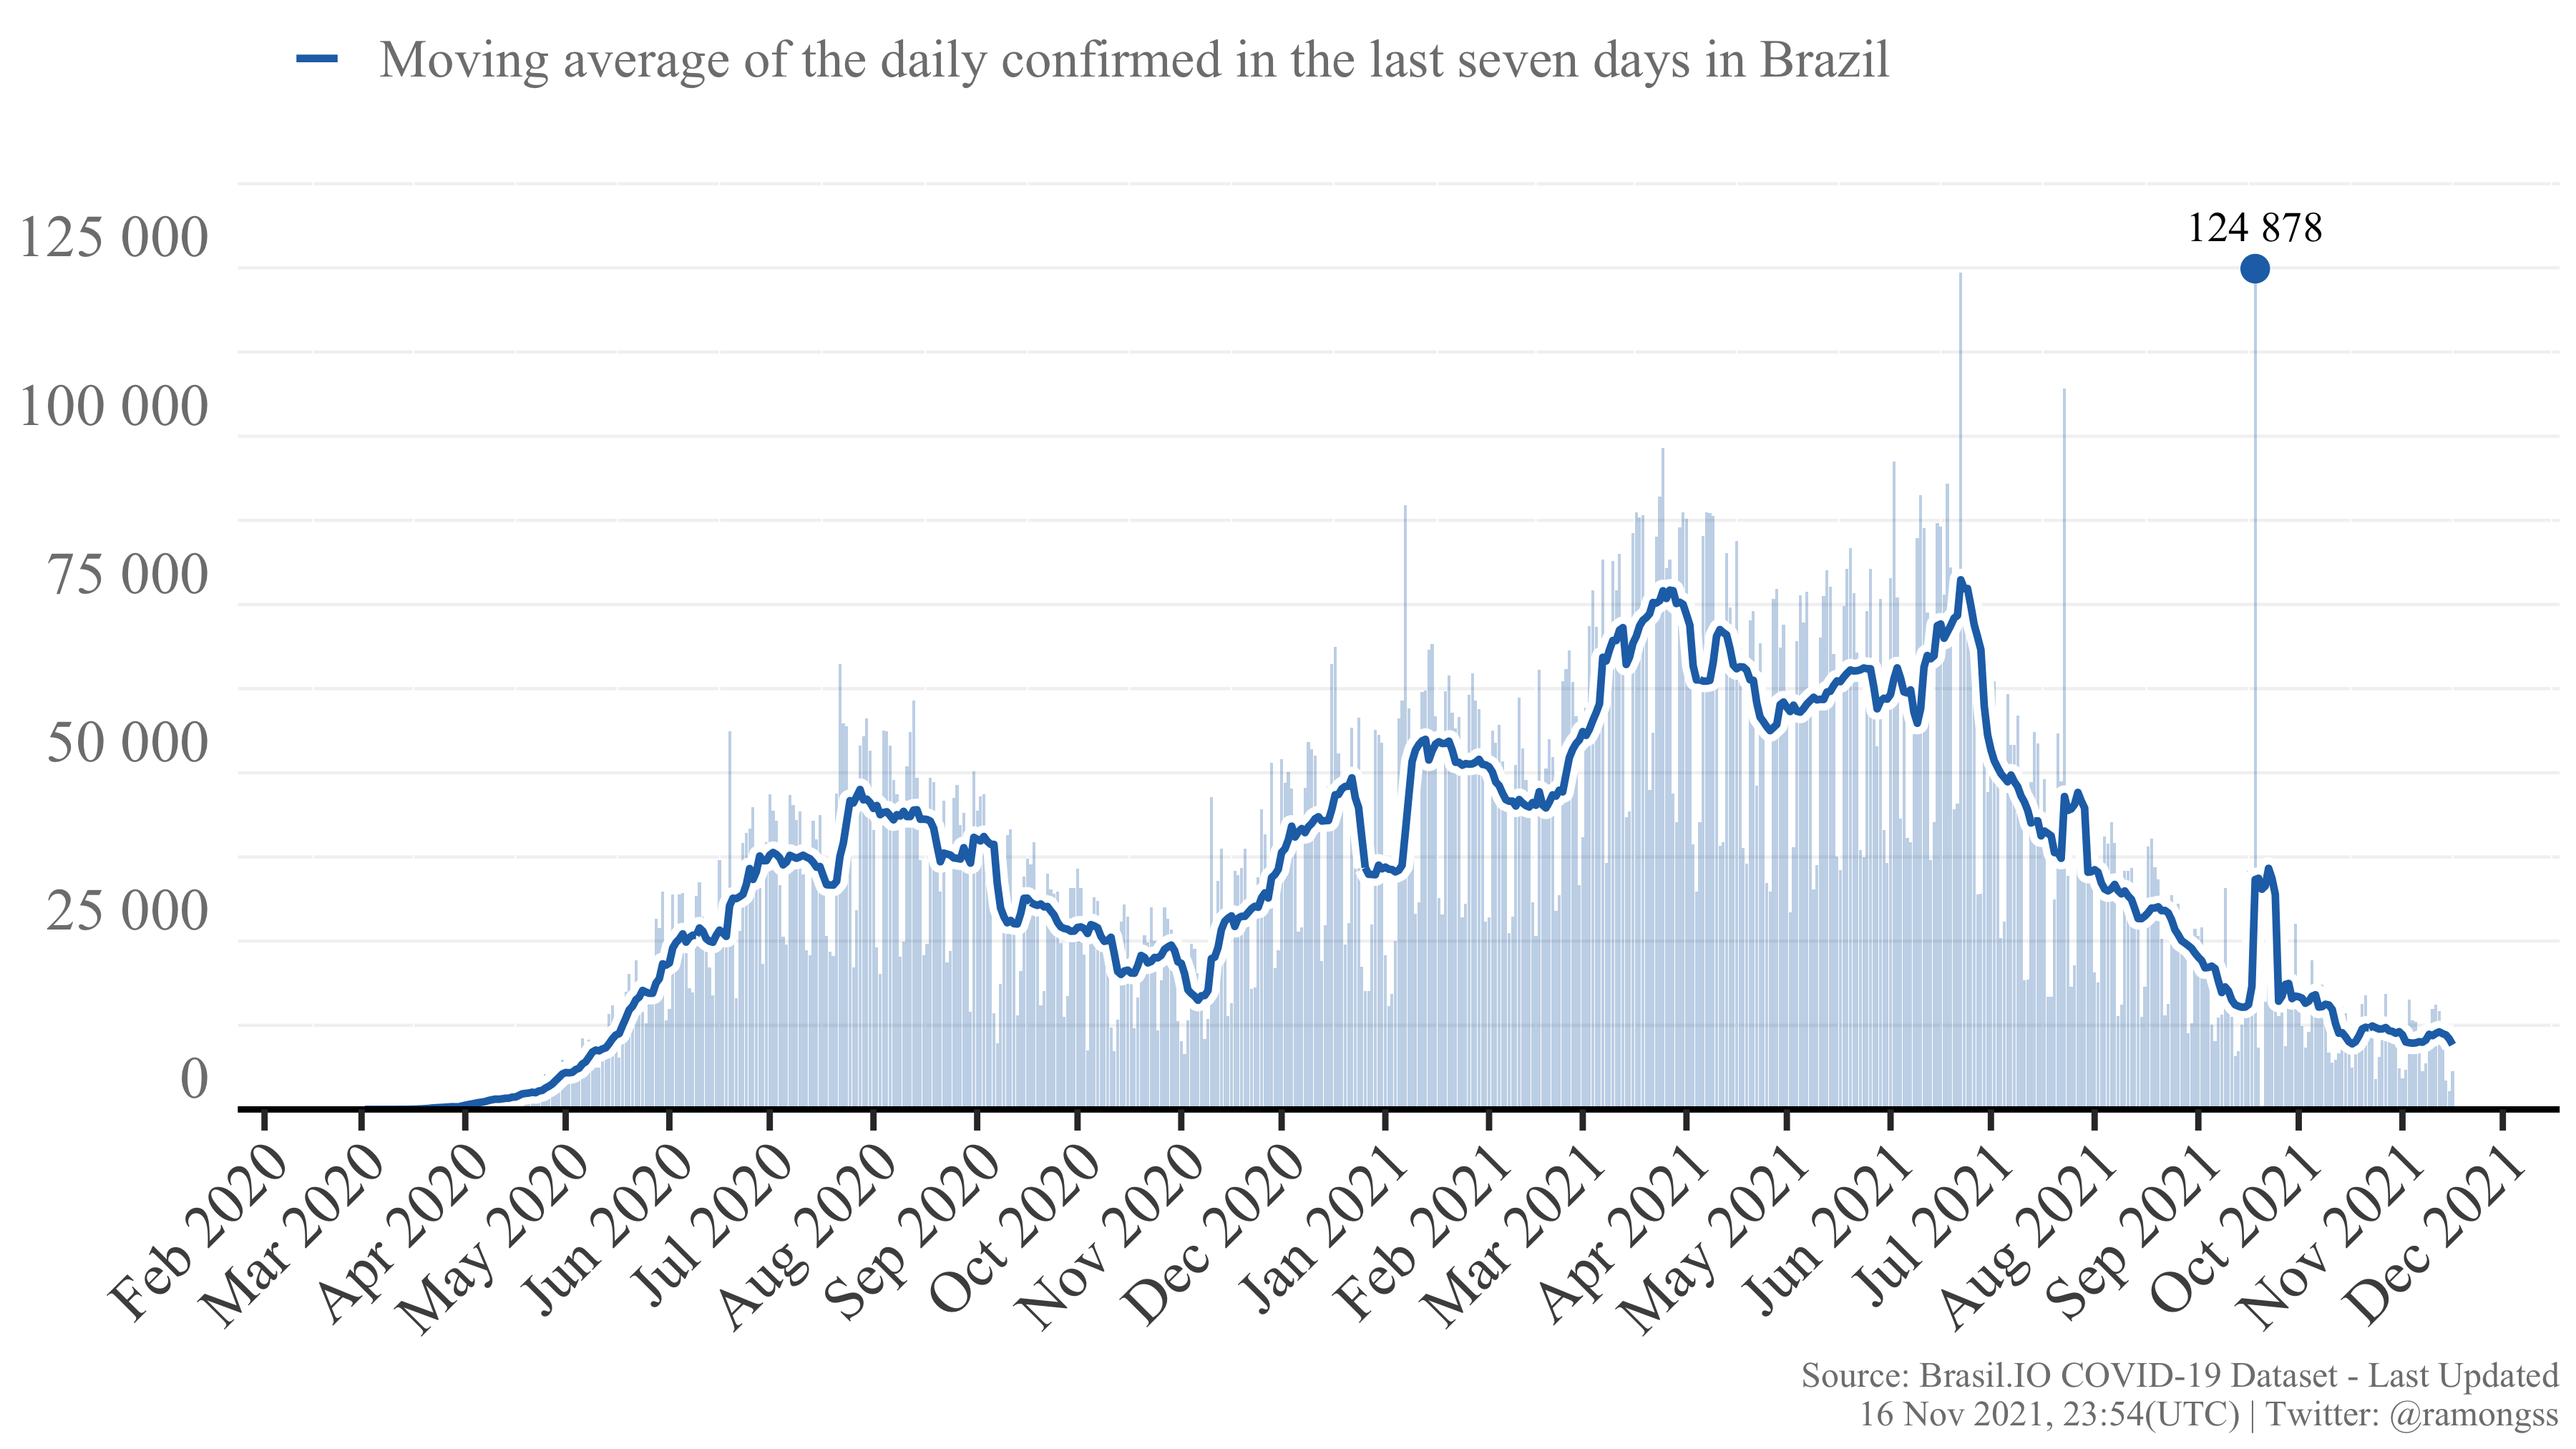
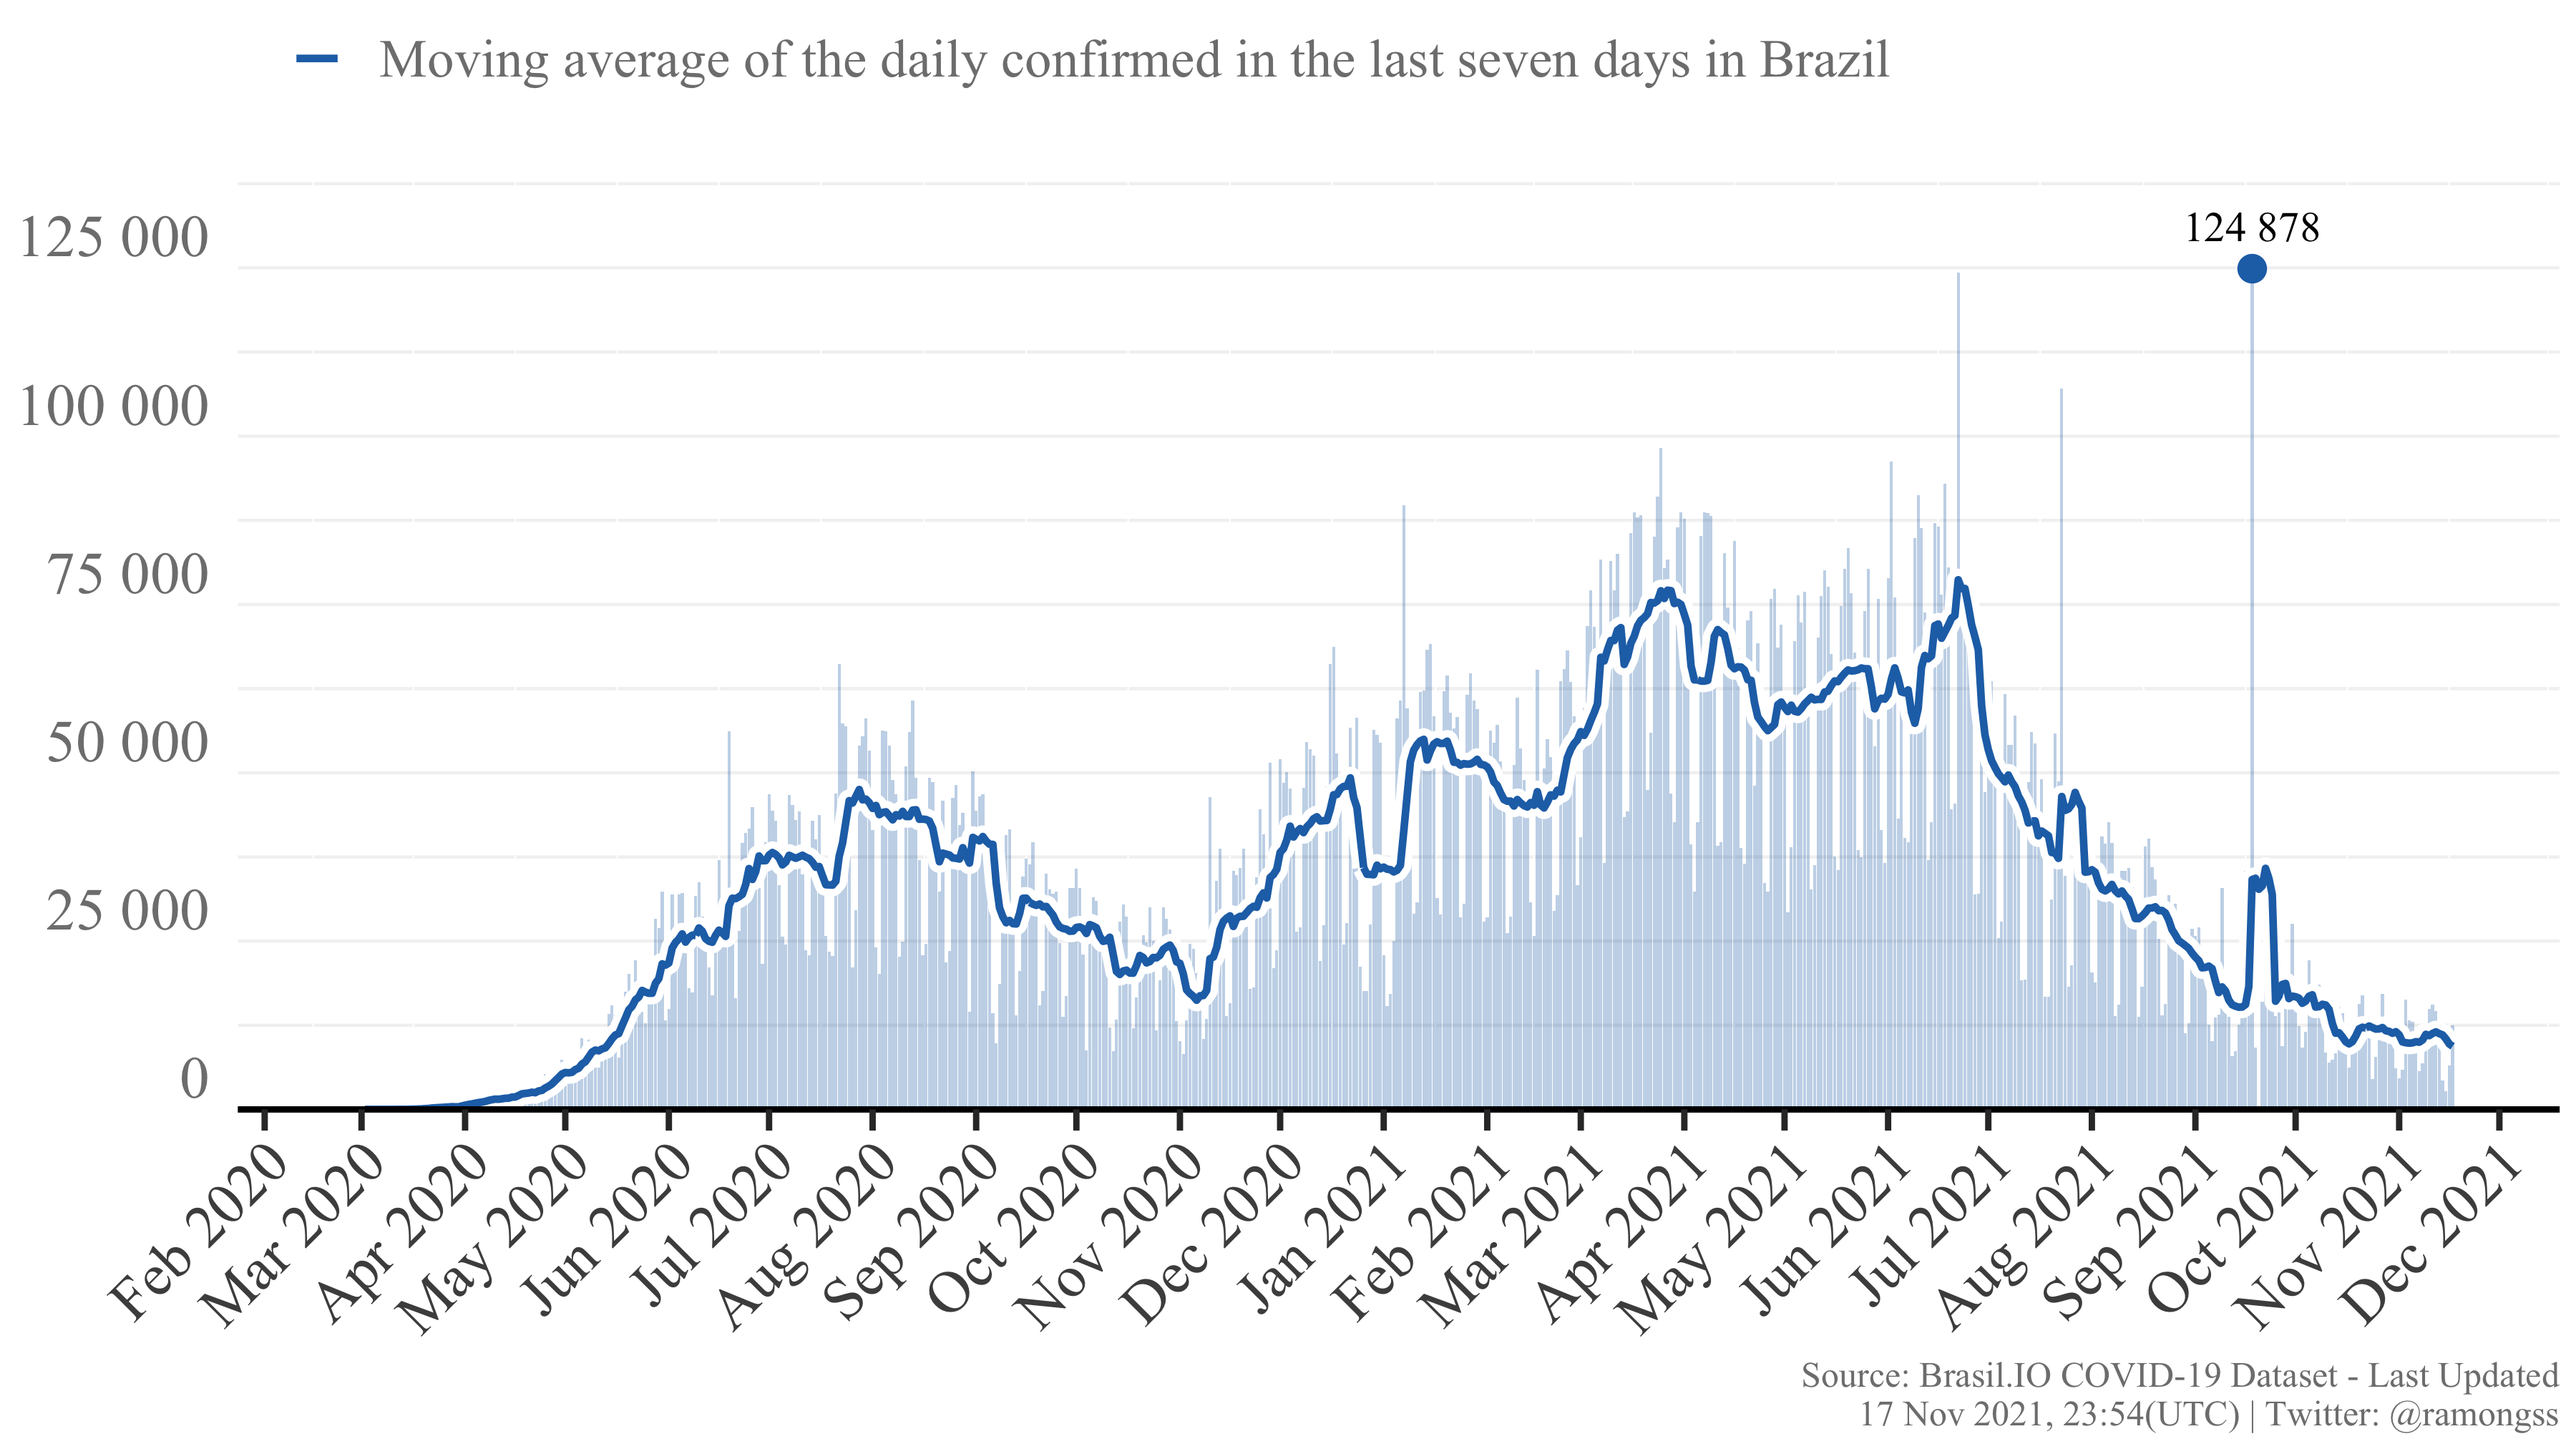
Re-build README.Rmd

diff --git a/README.md b/README.md
@@ -27,8 +27,8 @@ download_brasilio_table <- function(dataset = "covid19", table_name){
 
 ## COVID-19 Confirmed cases
 
-Currently, Brazil has a total of **21,970,464** confirmed cases at **16
-Nov, 2021**, with **5,695** new confirmed cases. The daily maximum
+Currently, Brazil has a total of **21,983,839** confirmed cases at **17
+Nov, 2021**, with **12,502** new confirmed cases. The daily maximum
 incidence was **124,878** confirmed cases at **18 Sep, 2021**. Here
 follows the Figure showing the confirmed case incidence as the bars, and
 the line as the moving average of the last 7 days.
@@ -37,8 +37,8 @@ the line as the moving average of the last 7 days.
 
 ## COVID-19 Deaths
 
-Currently, Brazil has a total of **611,749** deaths at **16 Nov, 2021**,
-with **134** new deaths. The daily maximum deaths incidence was
+Currently, Brazil has a total of **612,128** deaths at **17 Nov, 2021**,
+with **369** new deaths. The daily maximum deaths incidence was
 **4,148** deaths at **08 Apr, 2021**. Here follows the Figure showing
 the deaths incidence as the bars, and the line as the moving average of
 the last 7 days.
@@ -49,4 +49,4 @@ the last 7 days.
 
 This page is daily updated automatically using Github Actions.
 
-*Last update: 16 Nov 2021, 23:54 (UTC).*
+*Last update: 17 Nov 2021, 23:54 (UTC).*
